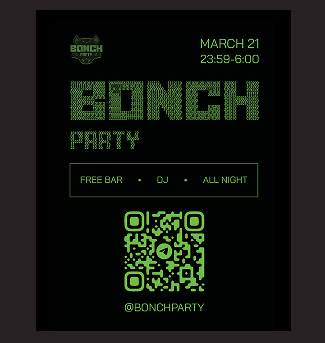
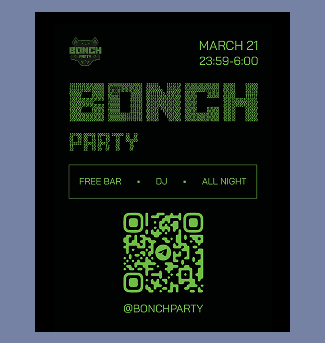
new color

diff --git a/index.html b/index.html
@@ -187,7 +187,7 @@
                 <div class="projects-grid">
                     <div class="project-card" data-category="posters">
                        <img src="images/brandposter.jpg" alt="Brand posters" class="project-img">
-                       <a href="project8.html" class="project-title">
+                       <a href="brandposter.html" class="project-title">
                             <span lang="en">Brand posters</span>
                             <span lang="ru" style="display:none;">Брендовые постеры</span>
                        </a>
@@ -198,7 +198,7 @@
                     </div>
                     <div class="project-card" data-category="animation posters">
                        <img src="images/posters3d.jpg" alt="3D posters animation" class="project-img">
-                       <a href="project5.html" class="project-title">
+                       <a href="posters3d.html" class="project-title">
                             <span lang="en">3D posters animation</span>
                             <span lang="ru" style="display:none;">3D-анимация постеров</span>
                        </a>
@@ -209,7 +209,7 @@
                     </div>
                     <div class="project-card" data-category="animation posters">
                        <img src="images/poster.jpg" alt="Posters animation" class="project-img">
-                       <a href="project4.html" class="project-title">
+                       <a href="posteranimation.html" class="project-title">
                             <span lang="en">Posters animation</span>
                             <span lang="ru" style="display:none;">Анимация постеров</span>
                        </a>
@@ -218,20 +218,20 @@
                             <span lang="ru" style="display:none;">Ноябрь 2025</span>
                        </p>
                     </div>
-                    <div class="project-card" data-category="animation">
-                       <img src="images/bicycle.jpg" alt="Bicycle animation" class="project-img">
-                       <a href="project1.html" class="project-title">
-                            <span lang="en">Bicycle animation</span>
-                            <span lang="ru" style="display:none;">Анимация велосипеда</span>
+                    <div class="project-card" data-category="identity">
+                       <img src="images/resumedev.jpg" alt="Resume development" class="project-img">
+                       <a href="resumedev.html" class="project-title">
+                            <span lang="en">Resume design</span>
+                            <span lang="ru" style="display:none;">Оформление резюме</span>
                        </a>
                        <p class="project-date">
-                            <span lang="en">June 2026</span>
-                            <span lang="ru" style="display:none;">Июнь 2026</span>
+                            <span lang="en">August 2026</span>
+                            <span lang="ru" style="display:none;">Август 2026</span>
                        </p>
                     </div>
                     <div class="project-card" data-category="identity">
                        <img src="images/brandidentity.jpg" alt="Brand identity" class="project-img">
-                       <a href="project10.html" class="project-title">
+                       <a href="brandidentity.html" class="project-title">
                             <span lang="en">Brand identity</span>
                             <span lang="ru" style="display:none;">Айдентика бренда</span>
                        </a>
@@ -242,7 +242,7 @@
                     </div>
                     <div class="project-card" data-category="frontend">
                        <img src="images/web.jpg" alt="Web-page development" class="project-img">
-                       <a href="project11.html" class="project-title">
+                       <a href="webdev.html" class="project-title">
                             <span lang="en">Web-page development</span>
                             <span lang="ru" style="display:none;">Разработка веб-страницы</span>
                        </a>
@@ -253,7 +253,7 @@
                     </div>
                     <div class="project-card" data-category="identity posters">
                        <img src="images/eventidentity.jpg" alt="Event identity" class="project-img">
-                       <a href="project12.html" class="project-title">
+                       <a href="eventidentity.html" class="project-title">
                             <span lang="en">Event identity</span>
                             <span lang="ru" style="display:none;">Айдентика мероприятия</span>
                        </a>
@@ -262,20 +262,31 @@
                             <span lang="ru" style="display:none;">Октябрь 2025</span>
                        </p>
                     </div>
-                    <div class="project-card" data-category="animation">
-                       <img src="images/face.jpg" alt="Face emotions animation" class="project-img">
-                       <a href="project3.html" class="project-title">
-                            <span lang="en">Face emotions animation</span>
-                            <span lang="ru" style="display:none;">Анимация эмоций лица</span>
+                    <div class="project-card" data-category="identity posters">
+                       <img src="images/eventrebranding.jpg" alt="Event rebranding" class="project-img">
+                       <a href="eventrebranding.html" class="project-title">
+                            <span lang="en">Event rebranding</span>
+                            <span lang="ru" style="display:none;">Ребрендинг мероприятия</span>
                        </a>
                        <p class="project-date">
-                            <span lang="en">May 2026</span>
-                            <span lang="ru" style="display:none;">Май 2026</span>
+                            <span lang="en">October 2025</span>
+                            <span lang="ru" style="display:none;">Октябрь 2025</span>
+                       </p>
+                    </div>
+                    <div class="project-card" data-category="posters">
+                       <img src="images/eventposter.jpg" alt="Event poster" class="project-img">
+                       <a href="eventposter.html" class="project-title">
+                            <span lang="en">Event poster</span>
+                            <span lang="ru" style="display:none;">Постер мероприятия</span>
+                       </a>
+                       <p class="project-date">
+                            <span lang="en">August 2026</span>
+                            <span lang="ru" style="display:none;">Август 2026</span>
                        </p>
                     </div>
                     <div class="project-card" data-category="ux-ui frontend">
                        <img src="images/app.jpg" alt="Mini app development" class="project-img">
-                       <a href="project9.html" class="project-title">
+                       <a href="appdev.html" class="project-title">
                             <span lang="en">Mini app development</span>
                             <span lang="ru" style="display:none;">Разработка мини-приложения</span>
                        </a>
@@ -285,8 +296,30 @@
                        </p>
                     </div>
                     <div class="project-card" data-category="animation">
+                       <img src="images/bicycle.jpg" alt="Bicycle animation" class="project-img">
+                       <a href="bicycleanimation.html" class="project-title">
+                            <span lang="en">Bicycle animation</span>
+                            <span lang="ru" style="display:none;">Анимация велосипеда</span>
+                       </a>
+                       <p class="project-date">
+                            <span lang="en">June 2026</span>
+                            <span lang="ru" style="display:none;">Июнь 2026</span>
+                       </p>
+                    </div>
+                    <div class="project-card" data-category="animation">
+                       <img src="images/face.jpg" alt="Face emotions animation" class="project-img">
+                       <a href="faceanimation.html" class="project-title">
+                            <span lang="en">Face emotions animation</span>
+                            <span lang="ru" style="display:none;">Анимация эмоций лица</span>
+                       </a>
+                       <p class="project-date">
+                            <span lang="en">May 2026</span>
+                            <span lang="ru" style="display:none;">Май 2026</span>
+                       </p>
+                    </div>
+                    <div class="project-card" data-category="animation">
                        <img src="images/tail.jpg" alt="Tail animation" class="project-img">
-                       <a href="project2.html" class="project-title">
+                       <a href="tailanimation.html" class="project-title">
                             <span lang="en">Tail animation</span>
                             <span lang="ru" style="display:none;">Анимация хвоста</span>
                        </a>
